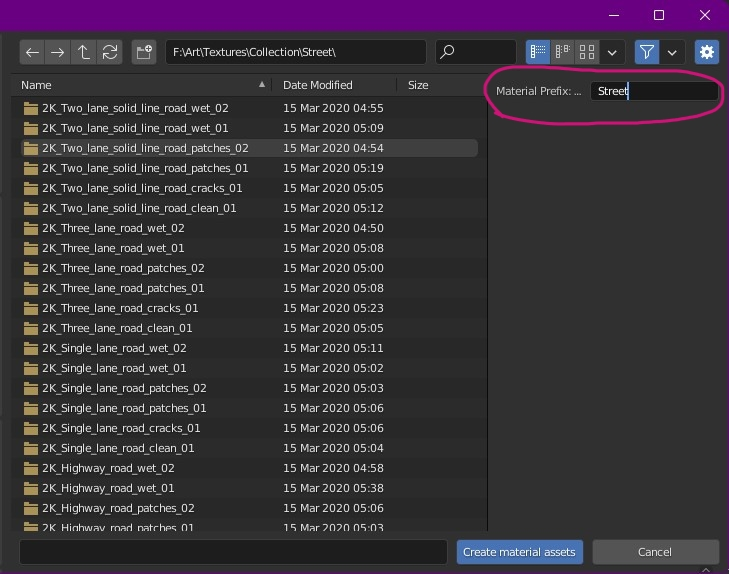
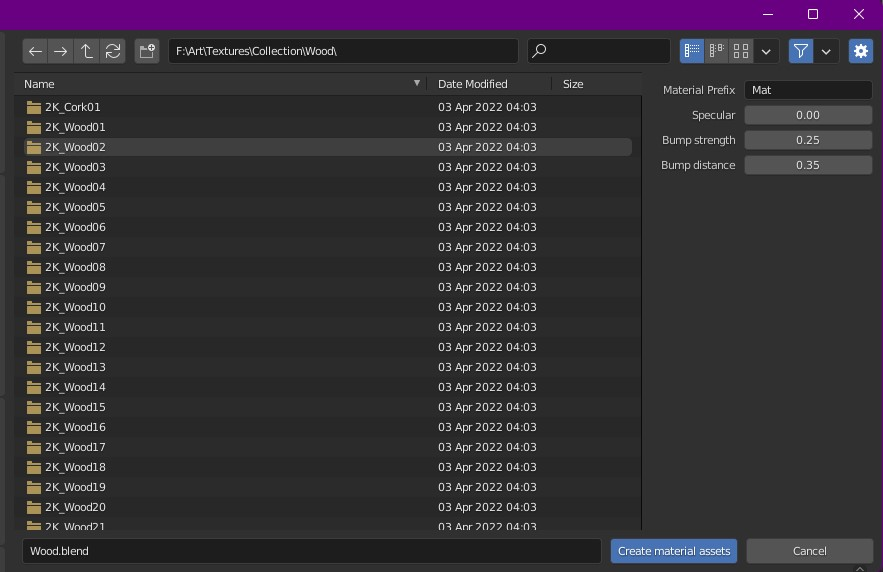
Specular, Bump and cubic interpolation properties

Changed region(s): [[0.0, 0.0, 1.0, 1.0]]

diff --git a/materialCreatorOperator.py b/materialCreatorOperator.py
@@ -34,13 +34,14 @@ searchPatternMask = re.compile(r'(mask)', re.I)
 searchPatternDisplacement = re.compile(r'(height|displace|bump)', re.I)
 
 
-def lookForTextures(path, materialPrefix, newObj):
+def lookForTextures(path, materialPrefix, newObj, specular, bumpStrength, bumpDistance):
     if not hasDir(path):            
         mat = bpy.data.materials.new(materialPrefix)
         mat.use_nodes = True
         matNodes = mat.node_tree.nodes
         matLinks = mat.node_tree.links
         shader = mat.node_tree.nodes["Principled BSDF"]
+        shader.inputs['Specular'] = specular
         
         for entry in os.scandir(path):
             if searchPatternDiffuse.search(entry.name):
@@ -82,6 +83,8 @@ def lookForTextures(path, materialPrefix, newObj):
                 nodeBump = matNodes.new(type="ShaderNodeBump")
                 nodeBump.hide = True
                 nodeBump.location = (-200, -290)
+                nodeBump.inputs['Strength'].default_value = bumpStrength
+                nodeBump.inputs['Distance'].default_value = bumpDistance
                 matLinks.new(nodeBump.inputs['Height'], tex.outputs['Color'])
             elif searchPatternNormal.search(entry.name):
                 bBump = False
@@ -143,10 +146,28 @@ class AddMaterialsToLibrary(Operator, ImportHelper):
         subtype="DIR_PATH",
     )
     
-    materialPrefix: StringProperty(
-        name="Material Prefix: MATERIAL.001",
-        description="Specify how what the prefix should be for the material",
+    materialPrefix: bpy.props.StringProperty(
+        name="Material Prefix",
+        description="Specify how what the prefix should be for the material.",
         default="Mat",
+    )
+
+    specular: bpy.props.FloatProperty(
+        name="Specular",
+        description="Amount of dielectric specular reflection. Specifies facing (along normal) reflectivity in the most common 0 - 8% range.",
+        default= 0.0,
+    )
+
+    bumpStrength: bpy.props.FloatProperty(
+        name="Bump strength",
+        description="Makes darker shadows. High values will make it ugly",
+        default= .25,
+    )
+
+    bumpDistance: bpy.props.FloatProperty(
+        name="Bump distance",
+        description=" High values will stop making changes (but will make it ugly at some point",
+        default= .35,
     )
 
     filter_folder: bpy.props.BoolProperty(default=True, options={"HIDDEN"})
@@ -161,7 +182,7 @@ class AddMaterialsToLibrary(Operator, ImportHelper):
             bpy.ops.mesh.primitive_cube_add(size=2, enter_editmode=False, align='WORLD', location=(0, 0, 0), scale=(1, 1, 1))
             newObj = bpy.context.active_object
 
-        lookForTextures(self.directory, self.materialPrefix, newObj)
+        lookForTextures(self.directory, self.materialPrefix, newObj, self.specular, self.bumpDistance, self.bumpStrength)
 
         
         return {"FINISHED"}

diff --git a/README.md b/README.md
@@ -8,6 +8,10 @@
 You can give the created Materials/Assets a Name.
 Leaving 'Material Prefix' empty will create materials with the standard blender naming convention of 'Material.XXX'.
 Material Prefix = 'Street' -> 'Street.XXX'
+Additionally you can set the strength and distance of the bump node.
+<div width=200>Strength/Distance = 1</div> | <div width=200>Strength = 0.25 Distance = 0.35)</div> | <div width=200> Strength = 0.6 Distance = 0.2 </dib> | <div width=200> Strength = 0.6 Distance = 0.6 </div> 
+:-------------------------:|:-------------------------:|:-------------------------:|:-------------------------:|
+ <img src="images/defaultBump.jpg" alt="drawing" width="200"/> | <img src="images/customBump.jpg" alt="drawing" width="200"/> | <img src="images/strength.jpg" alt="drawing" width="200"/> | <img src="images/distance.jpg" alt="drawing" width="200"/>
 
 ---
 
